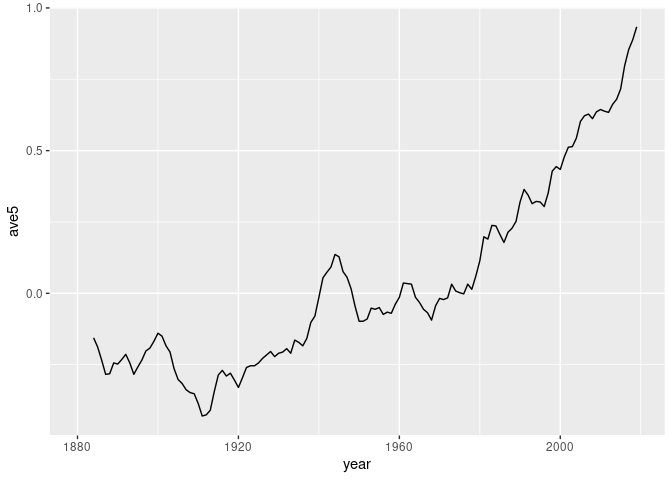
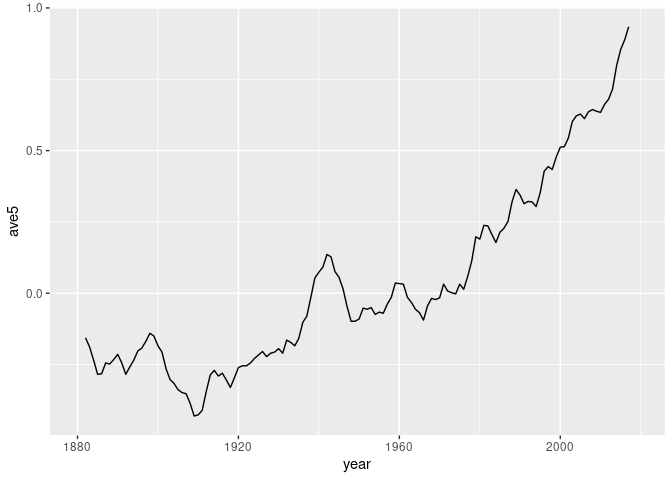
Final try for today after using RcppRoll

diff --git a/assignment/climate.md b/assignment/climate.md
@@ -182,20 +182,25 @@ January to December. Here, we add three columns to the original
 temperature dataframe, representing a 5-year average, a 10-year one, and
 a 20-year one, respectively. We also attach a graph for each one.
 
+To find the rolling average, we first need to install its corresponding
+package:
+
 ``` r
-library(zoo)
+install.packages("RcppRoll")
 ```
 
-    ## 
-    ## Attaching package: 'zoo'
+    ## Installing package into '/usr/local/lib/R/site-library'
+    ## (as 'lib' is unspecified)
 
-    ## The following objects are masked from 'package:base':
-    ## 
-    ##     as.Date, as.Date.numeric
+``` r
+library("RcppRoll")
+```
+
+And then, it’s time to draw\!
 
 ``` r
 temperature %>%
-  mutate(ave5 = rollmean(temp,5, na.pad=TRUE, align="right")) %>%
+  mutate(ave5 = roll_mean(temp,5,fill=NA)) %>%
   ggplot(aes(x = year, y = ave5)) + geom_line()
 ```
 
@@ -205,7 +210,7 @@ temperature %>%
 
 ``` r
 temperature %>%
-  mutate(ave10 = rollmean(temp,10, na.pad=TRUE, align="right"))%>%
+  mutate(ave10 = roll_mean(temp,10,fill=NA))%>%
   ggplot(aes(x = year, y = ave10)) + geom_line()
 ```
 
@@ -215,7 +220,7 @@ temperature %>%
 
 ``` r
 temperature %>%
-  mutate(ave20 = rollmean(temp,20, na.pad=TRUE, align="right"))%>%
+  mutate(ave20 = roll_mean(temp,20,fill=NA))%>%
   ggplot(aes(x = year, y = ave20)) + geom_line()
 ```
 
